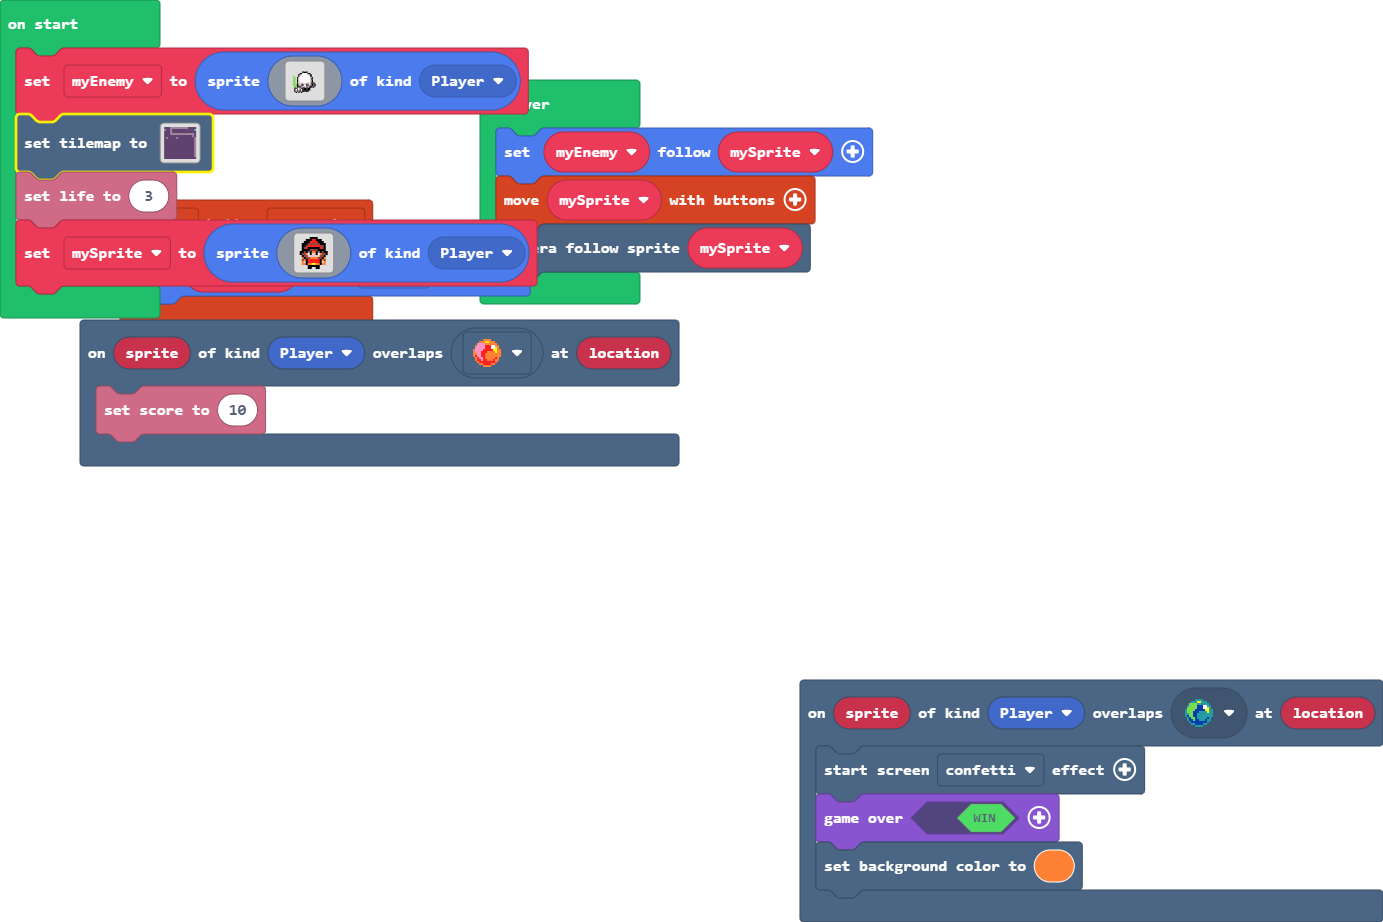
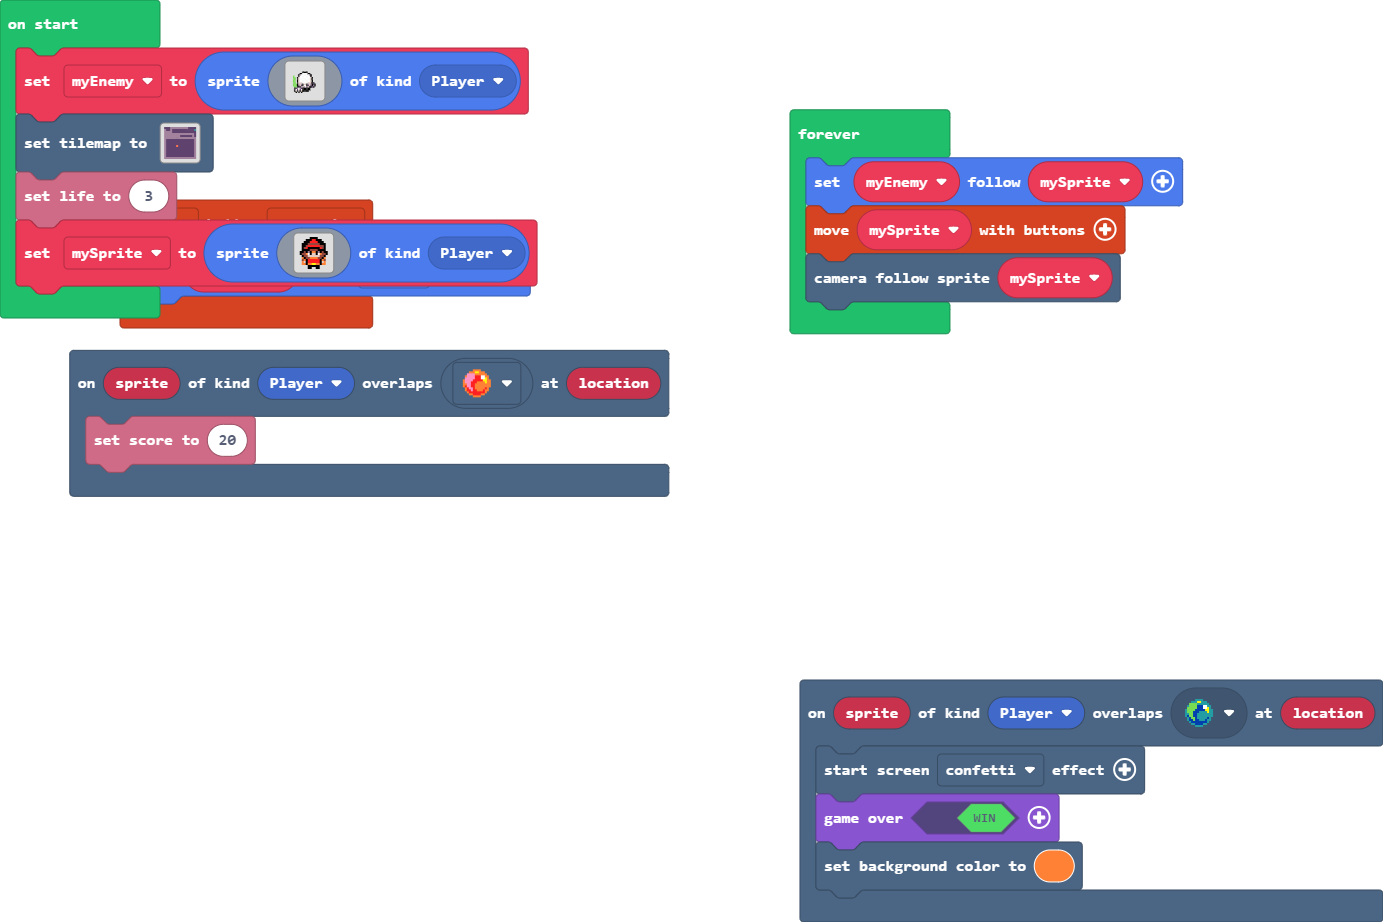
Update main.blocks, main.ts

Changed region(s): [[0.0311, 0.0607, 0.8706, 0.5466], [0.0, 0.1215, 0.1555, 0.2126]]

diff --git a/main.ts b/main.ts
@@ -7,7 +7,7 @@ scene.onOverlapTile(SpriteKind.Player, sprites.dungeon.collectibleBlueCrystal, f
     scene.setBackgroundColor(4)
 })
 scene.onOverlapTile(SpriteKind.Player, sprites.dungeon.collectibleRedCrystal, function (sprite, location) {
-    info.setScore(10)
+    info.setScore(20)
 })
 let mySprite: Sprite = null
 let myEnemy = sprites.create(img`
